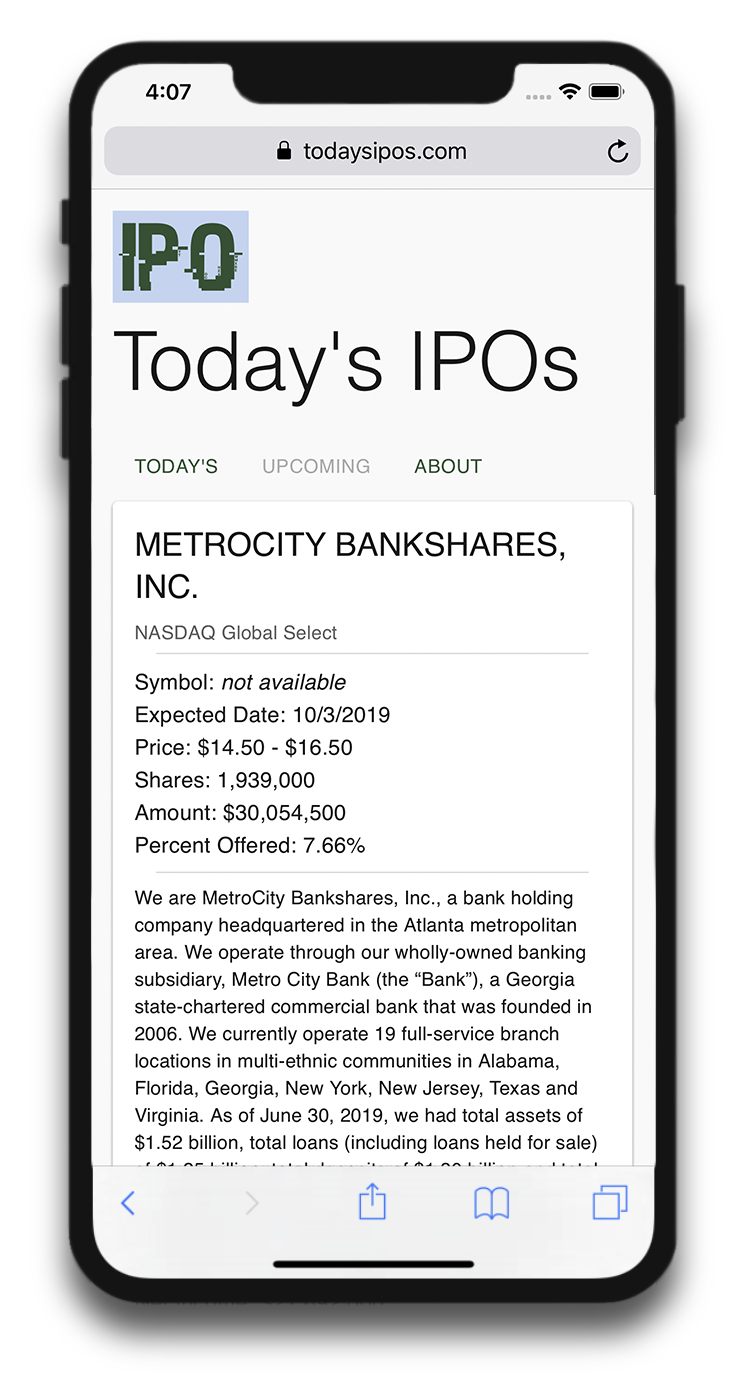
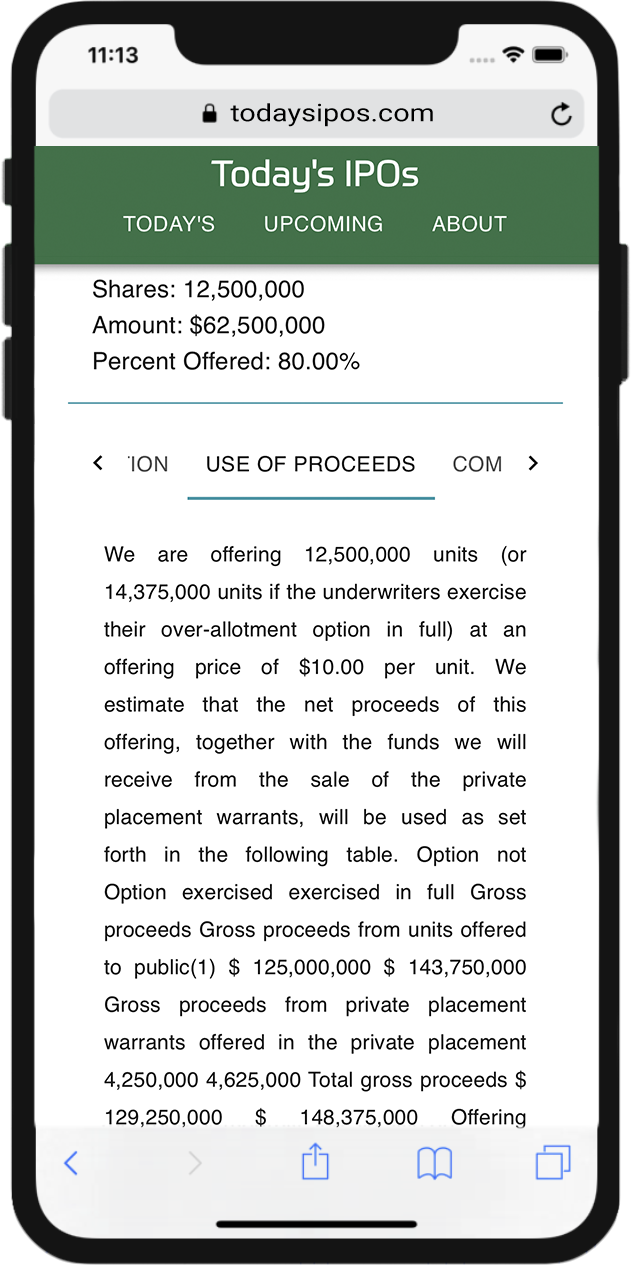
updated todays animations, project buttons, removed background texture

diff --git a/src/2D/Projects.js b/src/2D/Projects.js
@@ -1,5 +1,4 @@
 import React, { Component } from "react";
-import Carousel from "react-bootstrap/Carousel";
 import BerlandDetail from "./BerlandDetail";
 import TodaysIposDetail from "./TodaysIposDetail";
 import posed from "react-pose";
@@ -10,7 +9,8 @@ const Box = posed.div({
   pressable: true,
   init: {
     scale: 1,
-    boxShadow: "0px 0px 10px rgba(0,0,0,0.1)"
+    boxShadow: "0px 0px 3px rgba(0,0,0,1)",
+    color: "white"
   },
   hover: {
     scale: 1.2,
@@ -56,28 +56,10 @@ class Projects extends Component {
   };
 
   render() {
-    const berlandPics = [
-      "images/berlandAnimations/ScreenShots_Berland-width-525-SolidWhite.png",
-      "images/berlandAnimations/ScreenShots_Berland-width-525-1.png",
-      "images/berlandAnimations/ScreenShots_Berland-width-525-2.png",
-      "images/berlandAnimations/ScreenShots_Berland-width-525-3.png",
-      "images/berlandAnimations/ScreenShots_Berland-width-525-4.png",
-      "images/berlandAnimations/ScreenShots_Berland-width-525-5.png",
-      "images/berlandAnimations/ScreenShots_Berland-width-525-6.png",
-      "images/berlandAnimations/ScreenShots_Berland-width-525-7.png"
-    ];
-    const todaysPics = [
-      "images/todaysIposAnimation/ScreenShots_TodaysIpos_525-SolidWhite.png",
-      "images/todaysIposAnimation/ScreenShots_TodaysIpos_width525-1.png",
-      "images/todaysIposAnimation/ScreenShots_TodaysIpos_width525-2.png",
-      "images/todaysIposAnimation/ScreenShots_TodaysIpos_width525-3.png",
-      "images/todaysIposAnimation/ScreenShots_TodaysIpos_width525-4.png",
-      "images/todaysIposAnimation/ScreenShots_TodaysIpos_width525-5.png"
-    ];
     const windowAspect = window.innerWidth / window.innerHeight;
-    const variableWidth = windowAspect > 1 ? 250 : 420;
-    const variableMarginTop = windowAspect > 1 ? -300 : 0;
-    const overlayIndex = !this.state.isHovered ? undefined : 0;
+    const variableWidth = windowAspect > 1 ? 250 : 200;
+    const variableMarginTop = windowAspect > 1 ? -300 : -300;
+    const variableFontSize = windowAspect > 1 ? 24 : 22;
 
     return (
       <div>
@@ -86,30 +68,31 @@ class Projects extends Component {
           show={this.state.showTodaysIposDetail}
           onHide={() => this.setState({ showTodaysIposDetail: false })}
         />
-        <div className="container" style={{ marginTop: variableMarginTop }}>
+        <div className="container" style={{ marginTop: variableMarginTop, padding: 0, marginLeft: 0, marginRight: 0 }}>
           <div className="row justify-content-center">
             <Box
               className="box"
               onPressStart={this.onClickBerland}
               style={{
-                background: "radial-gradient(#ff8684 50%, #E85656)",
-                color: "white",
+                // background: "radial-gradient(#ffee5f 80%, #a97b00)",
+                background: "#fa424a",
                 borderRadius: "30px",
+                borderColor: "black",
+                borderWidth: "4px",
                 width: variableWidth,
                 height: variableWidth,
-                marginBottom: 25,
-                marginRight: 50,
+                margin: 10,
                 display: "flex",
                 alignItems: "center"
               }}
             >
               <div className="container">
                 <div className="row justify-content-center">
-                  <h5>
+                  <p style={{ fontSize: variableFontSize }}>
                     <SplitText initialPose="exit" pose="enter" charPoses={charPoses}>
                       toddberland.com
                     </SplitText>
-                  </h5>
+                  </p>
                 </div>
               </div>
             </Box>
@@ -118,24 +101,25 @@ class Projects extends Component {
               className="box"
               onPressStart={this.onClickTodaysIpos}
               style={{
-                background: "radial-gradient(#55d07a 40%, #1A9C3F)",
-                color: "white",
+                background: "#208BC7",
+                // background: "radial-gradient(#55d07a 40%, #1A9C3F)",
                 borderRadius: "30px",
+                borderColor: "black",
+                borderWidth: "4px",
                 width: variableWidth,
                 height: variableWidth,
-                marginBottom: 25,
-                marginRight: 50,
+                margin: 10,
                 display: "flex",
                 alignItems: "center"
               }}
             >
               <div className="container">
                 <div className="row justify-content-center">
-                  <h5>
+                  <p style={{ fontSize: variableFontSize }}>
                     <SplitText initialPose="exit" pose="enter" charPoses={charPoses}>
                       todaysipos.com
                     </SplitText>
-                  </h5>
+                  </p>
                 </div>
               </div>
             </Box>

diff --git a/src/2D/TodaysIposDetail.js b/src/2D/TodaysIposDetail.js
@@ -8,17 +8,21 @@ import Carousel from "react-bootstrap/Carousel";
 
 export default function TodaysIpos(props) {
   const screenShotAnimation = [
-    "images/todaysIposAnimation/ScreenShots_TodaysIpos_700px-1.png",
-    "images/todaysIposAnimation/ScreenShots_TodaysIpos_700px-2.png",
-    "images/todaysIposAnimation/ScreenShots_TodaysIpos_700px-3.png",
-    "images/todaysIposAnimation/ScreenShots_TodaysIpos_700px-4.png",
-    "images/todaysIposAnimation/ScreenShots_TodaysIpos_700px-5.png"
+    "images/todaysIposAnimation/WebScreenShots-700-Competition.png",
+    "images/todaysIposAnimation/WebScreenShots-700-Description.png",
+    "images/todaysIposAnimation/WebScreenShots-700-Financials.png",
+    "images/todaysIposAnimation/WebScreenShots-700-Proceeds.png",
+    "images/todaysIposAnimation/WebScreenShots-700-About.png"
   ];
   const iphoneAnimation = [
+    "images/todaysIposAnimation/IphoneTodaysIpos-1.png",
     "images/todaysIposAnimation/IphoneTodaysIpos-2.png",
     "images/todaysIposAnimation/IphoneTodaysIpos-3.png",
     "images/todaysIposAnimation/IphoneTodaysIpos-4.png",
-    "images/todaysIposAnimation/IphoneTodaysIpos-5.png"
+    "images/todaysIposAnimation/IphoneTodaysIpos-5.png",
+    "images/todaysIposAnimation/IphoneTodaysIpos-6.png",
+    "images/todaysIposAnimation/IphoneTodaysIpos-7.png",
+    "images/todaysIposAnimation/IphoneTodaysIpos-8.png"
   ];
 
   const windowAspect = window.innerWidth / window.innerHeight;
@@ -64,7 +68,10 @@ export default function TodaysIpos(props) {
                   marginRight: "auto"
                 }}
               >
-                <a href="https://todaysipos.com" target="_blank" rel='noreferrer noopener'
+                <a
+                  href="https://todaysipos.com"
+                  target="_blank"
+                  rel="noreferrer noopener"
                   style={{
                     textDecoration: "none",
                     color: "white"
@@ -110,7 +117,7 @@ export default function TodaysIpos(props) {
                   as={"container"}
                   pauseOnHover={false}
                   interval={1500}
-                  controls={true}
+                  controls={false}
                   indicators={true}
                   fade={true}
                   className="shadow"
@@ -125,17 +132,26 @@ export default function TodaysIpos(props) {
             </Row>
             <Row style={{ justifyContent: "center", marginBottom: 25 }}>
               <Col xs={12} md={8}>
-                <Carousel pauseOnHover={false} interval={1500} controls={true} indicators={true} fade={true}>
-                  {screenShotAnimation.map(imgSrc => (
-                    <Carousel.Item key={imgSrc}>
-                      {windowAspect > 1 ? (
-                        <img src={imgSrc} alt="" style={{ width: 700 }} /> //web
-                      ) : (
-                        <img src={imgSrc} alt="" style={{ width: 300 }} /> //mobile
-                      )}
-                    </Carousel.Item>
-                  ))}
-                </Carousel>
+                <Container>
+                  <Carousel
+                    pauseOnHover={false}
+                    interval={1500}
+                    controls={true}
+                    indicators={true}
+                    fade={true}
+                    className="shadow"
+                  >
+                    {screenShotAnimation.map(imgSrc => (
+                      <Carousel.Item key={imgSrc}>
+                        {windowAspect > 1 ? (
+                          <img src={imgSrc} alt="" /> //web
+                        ) : (
+                          <img src={imgSrc} alt="" style={{ width: 300 }} /> //mobile
+                        )}
+                      </Carousel.Item>
+                    ))}
+                  </Carousel>
+                </Container>
               </Col>
             </Row>
             <Row

diff --git a/src/2D/About.js b/src/2D/About.js
@@ -53,26 +53,20 @@ class About extends Component {
       this.setState({
         isVisible: !this.state.isVisible
       });
-    }, 500);
+    }, 1000);
     setTimeout(this.toggle, 2500);
-  }
-  componentDidUpdate() {
-    // console.log("this.props", this.props);
-    // console.log("location", this.props.location);
-    // if (this.props.location.pathname !== `/about`) {
-    //   this.props.history.push(`/about`);
-    // }
   }
 
   toggle = () => this.setState({ isOpen: !this.state.isOpen });
 
   render() {
     const windowAspect = window.innerWidth / window.innerHeight;
-    const marginTop = windowAspect > 1 ? 50 : 1200;
+    const marginTop = windowAspect > 1 ? 130 : -200;
     const textSize = windowAspect > 1 ? 20 : 24;
     const lineSpace = windowAspect > 1 ? 2.3 : 1.8;
-    const paddingX = windowAspect > 1 ? 50 : 0;
-    const strongTextSize = windowAspect > 1 ? 36 : 36;
+    const paddingX = windowAspect > 1 ? 50 : -15;
+    const strongTextSize = windowAspect > 1 ? 36 : 28;
+    const variableWidth = windowAspect > 1 ? "64vw" : null;
 
     const { isVisible, isOpen } = this.state;
 
@@ -85,7 +79,7 @@ class About extends Component {
             <Modal
               key="modal"
               style={{
-                width: "64vw",
+                width: variableWidth,
                 height: "90vh",
                 marginTop: marginTop,
                 paddingLeft: paddingX,

diff --git a/src/2D/Contact.js b/src/2D/Contact.js
@@ -3,16 +3,16 @@ import Row from "react-bootstrap/Row";
 import Col from "react-bootstrap/Col";
 import Image from "react-bootstrap/Image";
 import "./contact.css";
-import ContactForm from './ContactForm';
+import ContactForm from "./ContactForm";
 
 class Contact extends Component {
   render() {
     const windowAspect = window.innerWidth / window.innerHeight;
-    const marginTop = windowAspect > 1 ? -350 : -230;
+    const marginTop = windowAspect > 1 ? -350 : -160;
     return (
       <div className="container" style={{ marginTop: marginTop }}>
         <Row>
-          <Col className="align-items-center" style={{ marginX: 0, marginBottom: 10 }}>
+          <Col className="align-items-center" style={{ marginX: 0, marginBottom: 3 }}>
             <Row className="mb-1">
               <Image src="images/Will_SlackProfilePic.jpg" roundedCircle></Image>
             </Row>
@@ -27,7 +27,7 @@ class Contact extends Component {
             </Row>
           </Col>
 
-          <Col className="align-items-center" style={{ marginX: 0, marginBottom: 10 }}>
+          <Col className="align-items-center" style={{ marginX: 0, marginBottom: 2 }}>
             <Row className="mb-1">
               <Image src="images/Preston_BW_profilePic2.jpg" roundedCircle></Image>
             </Row>

diff --git a/src/Home.js b/src/Home.js
@@ -244,16 +244,7 @@ class Home extends Component {
   };
 
   createPlane = (w, h, position, rotation) => {
-    // ** add background image texture ** //
-    const bgTexture = new THREE.TextureLoader().load("/images/AboutBG7.png");
-    bgTexture.wrapT = bgTexture.wrapS = THREE.MirroredRepeatWrapping;
-    bgTexture.repeat.set(windowAspect > 1 ? 198 : 80, windowAspect > 1 ? 198 : 80);
-    bgTexture.offset.x = 0.5;
-    bgTexture.offset.y = 0.5;
-
-    var material = new THREE.MeshBasicMaterial({
-      map: bgTexture
-    });
+    var material = new THREE.MeshBasicMaterial();
 
     var geometry = new THREE.PlaneGeometry(w, h);
 
@@ -744,7 +735,7 @@ class Home extends Component {
     heightmapVariable.material.uniforms["mousePos"] = {
       value: new THREE.Vector2(10000, 10000)
     };
-    heightmapVariable.material.uniforms["mouseSize"] = { value: 5 };
+    heightmapVariable.material.uniforms["mouseSize"] = { value: 4 };
     heightmapVariable.material.uniforms["viscosityConstant"] = {
       value: 0.97
     };
